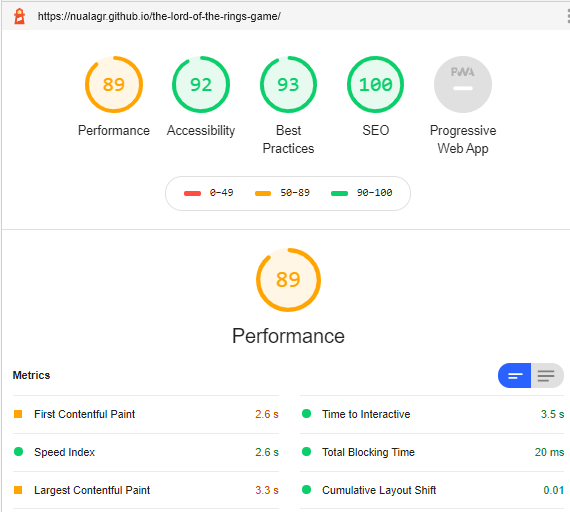
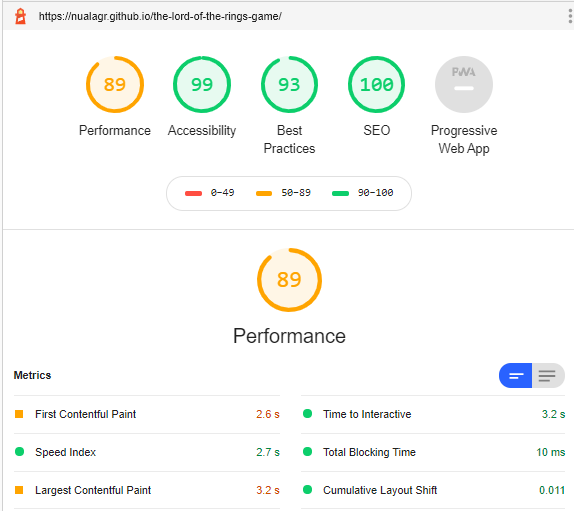
feat: added an aria-label to the 404 home page link to assist users using AT.

diff --git a/404.html b/404.html
@@ -17,7 +17,7 @@
         <h1>Hmm.. Looks like you've wandered off the beaten path.</h1>
         <h3>Don't worry. The elves are looking into it. 
         <br>
-        Click <a href="index.html">here</a> to head back to safety.</h3>
+        Click <a href="index.html" aria-label="Link to the Home Page">here</a> to head back to safety.</h3>
     </section>
 </body>
 </html>

diff --git a/README.md b/README.md
@@ -335,10 +335,8 @@ During development it became necessary to expand the colour palette in order to 
 [SP-Studio](https://www.sp-studio.de/) was used to create the Lord of the Rings themed character images.
 
 <img src="documentation/readme-images/samwise-gamgee.jpg" height="auto%" width="100%" alt="Samwise Gamgee" />
-<sub>Character image created at [SP-Studio](https://www.sp-studio.de/).</sub>
 
 <img src="documentation/readme-images/denethor.jpg" height="auto%" width="100%" alt="Denethor II" />
-<sub> Character image created at [SP-Studio](https://www.sp-studio.de/).</sub>
 
 #### Icons
 Icons were used alongside the text within the site in order to help the user to understand the content at a glance. 
@@ -454,7 +452,7 @@ To test the validity of the JavaScript [Espirima](https://esprima.org/demo/valid
 
 <br>
 
-Performance
+### Performance
 Once completed the website was tested using the Google Chrome Developer Tools Lighthouse test. Initially the site received a 75% rating on performance, 
 largely due to the size of the images.
 <img src="documentation/readme-images/lighthouse-mobile-performance-1.png" height="auto%" width="100%" alt="Lighthouse Performance Results" />
@@ -471,43 +469,52 @@ The site performed well when tested for desktop viewing.
 
 <br>
 
-To ensure the site's functionality across various devices, I used the web developer tools inspection feature of each of the following browsers:
+### Responsiveness
+Web developer tools in each of the following browsers were used to ensure responsiveness and functionality of the site:
 
-Google Chrome
-Mozilla Firefox
-Microsoft Opera
-Microsift Edge
-For each browser, I checked the preview of each of the site's pages for the following devices, in both vertical and horizontal views for mobile devices:
+-Google Chrome
+-Microsift Edge
+-Microsoft Opera
+-Mozilla Firefox
 
-Kindle Fire HDX
-Laptop with HiDPI screen
-Laptop with MDPI screen
-Laptop with touch
-Moto G4
-Galaxy S5
-Pixel 2
-Pixel 2XL
-iPhone 5/SE
-iPhone 6/7/8
-iPhone 6/7/8 plus
-iPhone X
-iPad
-iPad Pro
-Surface Duo
-Galaxy Fold
+Each website feature including, but not exclusive to, modals, buttons, game responses, mute, external links, hover effects etc. were manually checked within the 
+aforementioned browsers.
 
-I manually checked all the pages and features of the website (i.e. navigation, links external and internal, buttons, hover effects, game) 
-across all device simulations that each browser offers.
+Within each browser the site was checked for responsiveness and functionality when viewed on the following devices: 
 
-In addition to checking the application's functionality using browser developer tools, 
+**Mobile**
+- Android 7.0
+- Galaxy S5
+- Galaxy S9
+- iPhone 5/SE
+- iPhone 6/7/8
+- iPhone 6/7/8 plus
+- iPhone X / XS
+- Moto G4
+- Pixel 2
+- Pixel 2XL
+- Surface Duo
+
+**Tablet**
+- iPad
+- iPad Pro
+- Kindle Fire HDX
+
+**Laptop**
+- Laptop with HiDPI screen
+- Laptop with MDPI screen
+- Laptop with touch
+
+In addition to checking the game's functionality using browser developer tools, 
 the site has been manually checked and found to function as desired on the following devices:
 
-Laptops:
-
+- Dell XPS 13
+- Samsung S7
 
 ### Bugs
-You should also mention in this section any interesting bugs or problems you discovered during your testing, even if you haven't addressed them yet.
-If this section grows too long, you may want to split it off into a separate file and link to it from here.
+- Upon first loading the site when the user chooses the Mordor pack the character images can often be seen before the card back images are written to screen.
+- The 'cards-match.mp3' sound plays before the 'card-flip.mp3' sound.
+- The second card 'card-flip.mp3' sound will not play if the user clicks on card 2 too quickly after card 1 and the first sound has not finished playing.
 
 ##### back to [top](#table-of-contents)
 ---
@@ -559,22 +566,12 @@ The website will open in a separate browser window.
 
 9) Press 'Enter' to create the clone.
 
-This section should describe the process you went through to deploy the project to a hosting platform (e.g. GitHub Pages or Heroku).
-
-In particular, you should provide all details of the differences between the deployed version and the development version, if any, including:
-
-Different values for environment variables (Heroku Config Vars)?
-Different configuration files?
-Separate git branch?
-In addition, if it is not obvious, you should also describe how to run your code locally.
-
 ##### back to [top](#table-of-contents)
 ---
 
 ## Credits
 ### Content
 The [Boostrap Modal component](https://getbootstrap.com/docs/4.0/components/modal/) was used and modified for each of the modals on the site.
-
 
 
 ### Media
